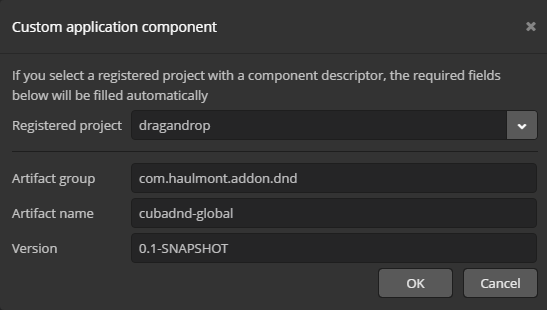
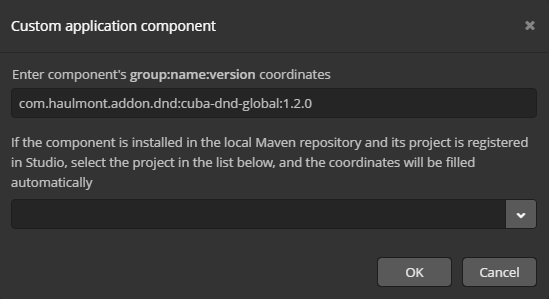
Fix README #4

diff --git a/README.md b/README.md
@@ -1,12 +1,12 @@
 ### Preface
-This manual describes the DnD add-on that provides Drag & Drop functionality for UI platform components [CUBA.platform](https://www.cuba-platform.com).
+The add-on provides Drag-and-Drop functionality for UI platform components [CUBA platform](https://www.cuba-platform.com).
 
 ### Dependencies
- - [vaadin add-on dragdroplayouts](https://github.com/parttio/dragdroplayouts)
- - [vaadin DragAndDropWrapper](https://vaadin.com/vaadin-documentation-portlet/framework/advanced/advanced-dragndrop.html)
+ - [Vaadin add-on dragdroplayouts](https://github.com/parttio/dragdroplayouts)
+ - [Vaadin DragAndDropWrapper](https://vaadin.com/vaadin-documentation-portlet/framework/advanced/advanced-dragndrop.html)
 
 ### Main features
-UI components with Drag & Drop functionality:
+UI components with Drag-and-Drop functionality:
   - DDVerticalLayout;
   - DDHorizontalLayout;
   - DDGridLayout;
@@ -14,38 +14,39 @@ UI components with Drag & Drop functionality:
   - DDAbsoluteLayout;
   - DragAndDropWrapper.
 
-### Compatibility with platform versions:
-| Add-on        | Platform      |
-|:------------- |:------------- |
-| 1.2           | 6.8+          |
-| 1.1           | 6.7+          |
-| 1.0           | 6.6+          |
+### Usage
+Select a version of the add-on which is compatible with the platform version used in your project:
 
-### Build from sources
-```
-gradlew install
-```
+| Platform Version| Add-on Version|
+|:----------------|:--------------|
+| 6.8.x           | 1.2.0         |
+| 6.7.x           | 1.1.0         |
+| 6.6.x           | 1.0.0         |
+
+Add custom application component to your project (change the version part if needed):
+`com.haulmont.addon.dnd:cuba-dnd-global:1.2.0`
+
 
 ### Description
-This add-on contains components that implement Drag & Drop functionality. To handle a component's drop action, it is necessary to implement DropHandler interface that contains two methods:
-- drop(DragAndDropEvent event) - method that handles transferable component's drop;
-- getCriterion() - returns the AcceptCriterion that is used to evaluate whether the dragged component will be handed over to drop method.
+This add-on contains components that implement Drag-and-Drop functionality. To handle a component's drop action, it is necessary to implement DropHandler interface that contains two methods:
+- `drop(DragAndDropEvent event)` - method that handles transferable component's drop;
+- `getCriterion()` - returns the AcceptCriterion that is used to evaluate whether the dragged component will be handed over to drop method.
 
-In order to accept a Drop event, components must provide the AcceptCriterion object. AcceptCriterion interface has two main inheritors - ServerSideCriterion and AcceptCriterionWrapper. If you want to check an accept criterion on a browser side, you have to implement AcceptCriterionWrapper interface.
+In order to accept a Drop event, components must provide the `AcceptCriterion` object. `AcceptCriterion` interface has two main inheritors - `ServerSideCriterion` and `AcceptCriterionWrapper`. If you want to check an accept criterion on a browser side, you have to implement `AcceptCriterionWrapper` interface.
 
 ### Quick start
 To use this add-on in a CUBA Studio project, follow the steps below:
 
-1. Download the add-on.
-2. Edit Project Properties in CUBA Studio. On the App components panel click the plus button next to Custom components.
-3. In the Custom application component dialog, select the add-on in the Registered project drop-down list. 
-4. Add the following xmlns in in the XML descriptor of the screen:
+1. In the project properties add add-on like custom application component and save settings.
+```
+`com.haulmont.addon.dnd:cuba-dnd-global:1.2.0`
+```
+2. Create a simple screen.
+2. Add the following namespace in the XML descriptor of the screen:
 
 ```
 xmlns:dnd="http://schemas.haulmont.com/dnd/0.1/drag-and-drop.xsd"
 ```
-
-After completing these steps, the DnD component will become available in CUBA Studio.
 
 #### Sample task
 Let's try to create a small todo-list app. It will provide a predefined set of todo-actions that can be added to the todo-list.
@@ -56,14 +57,14 @@ In this app we will implement the following features:
  - deleting components.
 
 #### Step-by-step guide
-Create a new CUBA project and add the DnD add-on to it.
+Create a new CUBA project and add the given add-on to it.
 
 ![](/sreenshots/1-Adding-addon.png "Adding add-on")
 
 In the GENERIC UI tab create a new screen using "Blank screen" template.
 
 We will divide this screen into two panels: the first panel is a palette that contains actions, the second is a dashboard that contains the list of actions.
-First of all, add the dependency to the XML descriptor of the screen:
+First of all, add the next namespace to the XML descriptor of the screen:
 ```
 xmlns:dnd="http://schemas.haulmont.com/dnd/0.1/drag-and-drop.xsd"
 ```
@@ -107,7 +108,7 @@ and add the following block:
 Component with the "rootPalette" id contains the set of predefined actions.
 These components can be dragged by users. Component with the "dashboard" id contains a todo-list.
 
-Palette and Dashboard have property dragMode which indicates that their components can be dragged.  
+Palette and Dashboard have property `dragMode` which indicates that their components can be dragged.  
 
 This is how the screen looks in the running app:
 
@@ -148,7 +149,7 @@ Make sure that the buttons are added and they can be dragged:
 
 ![](/sreenshots/3-xml-with-buttons.png "View of the screen with draggable buttons")
 
-In the screen controller set DropHandler to the dashboard component:
+In the screen controller set `DropHandler` to the dashboard component:
 
 ```Java
 @Inject
@@ -170,11 +171,11 @@ public void init(Map<String, Object> params) {
 }
 ```
 
-The methods drop() and getCriterion() are invoked every time when the dragged component is dropped to the layout.
-In the drop() method we should implement our logic to handle component's drop.  
+The methods `drop()` and `getCriterion()` are invoked every time when the dragged component is dropped to the layout.
+In the `drop()` method we should implement our logic to handle component's drop.  
 
-Method getCriterion() allows us to specify the criteria to accept dropping various components to this layout
-(e.g. only Labels and/or Buttons etc.). In this case we accept all components: AcceptCriterion.ACCEPT_ALL.
+Method `getCriterion()` allows us to specify the criteria to accept dropping various components to this layout
+(e.g. only Labels and/or Buttons etc.). In this case we accept all components: `AcceptCriterion.ACCEPT_ALL`.
 
 If we now run this app and try to drag a button to the dashboard, we will see that the dropping area is not highlighted.
 This is due to the dashboard property height which is set to AUTO. To expand this layout we should write some CSS in the extension theme of the app.
@@ -182,7 +183,7 @@ To do this, we create a theme extension in Project Properties.
 
 ![](/sreenshots/4-theme-extention.png "Create extension theme")  
 
-Add the following code to the halo-ext.scss:
+Add the following code to the `halo-ext.scss`:
 
 ```css
 .min-height{
@@ -202,13 +203,13 @@ public Component createDashboardElement(Component component) {
 }
 ```
 
-For the main component added directly to the dashboard we will use GroupBoxLayout. Then we will add HBoxLayout to the GroupBoxLayout and fill it with the components:
+For the main component added directly to the dashboard we will use `GroupBoxLayout`. Then we will add `HBoxLayout` to the `GroupBoxLayout` and fill it with the components:
 - Label with appropriate serial number;
 - Label with name of action;
 - LookupField;
 - Button to remove from list.
 
-Firstly, create GroupBoxLayout and HBoxLayout, specify width 100% for both components and add spacing to HBoxLayout:
+Firstly, create `GroupBoxLayout` and `HBoxLayout`, specify width 100% for both components and add spacing to `HBoxLayout`:
 
 ```Java
 GroupBoxLayout groupBox = factory.createComponent(GroupBoxLayout.class);
@@ -236,7 +237,7 @@ Button deleteButton = factory.createComponent(Button.class);
 deleteButton.setIcon("font-icon:TIMES");
 ```
 
-Create BaseAction for the delete button. We'll implement the logic of deletion a bit later:
+Create `BaseAction` for the delete button. We'll implement the logic of deletion a bit later:
 
 ```Java
 BaseAction action = new BaseAction("remove") {
@@ -260,18 +261,18 @@ layout.add(deleteButton);
 groupBox.add(layout);
 ```
 
-Now we should handle component's drop to the dashboard. DragAndDropEvent event variable contains information about which component is being dragged, its source layout, to which component, to which position etc. To get this information you should use the following classes:
+Now we should handle component's drop to the dashboard. `DragAndDropEvent` event variable contains information about which component is being dragged, its source layout, to which component, to which position etc. To get this information you should use the following classes:
 - LayoutBoundTransferable;
 - DDVerticalLayoutTargetDetails.
 
-In the drop() method we get references to the objects LayoutBoundTransferable and DDVerticalLayoutTargetDetails.
+In the `drop()` method we get references to the objects `LayoutBoundTransferable` and `DDVerticalLayoutTargetDetails`.
 
 ```java
 LayoutBoundTransferable t = (LayoutBoundTransferable) event.getTransferable();
 DDVerticalLayoutTargetDetails details = (DDVerticalLayoutTargetDetails) event.getTargetDetails();
 ```
 
-LayoutBoundTransferable contains two main methods:
+`LayoutBoundTransferable` contains two main methods:
 - getSourceComponent() - return the layout from which transferable component was dragged;
 - getTransferableComponent() - return transferable component;
 
@@ -280,13 +281,13 @@ Component sourceLayout = t.getSourceComponent();
 Component tComponent = t.getTransferableComponent();
 ```
 
-DDVerticalLayoutTargetDetails contains information about layout to drop the component to (receiving layout).
+`DDVerticalLayoutTargetDetails` contains information about layout to drop the component to (receiving layout).
 The main methods are:
-- getTarget() - return layout to which drop;
-- getOverComponent() - return child component of the target layout, to which drop transferable component;
-- getDropLocation() - return drop location (Middle, Top, Bottom);
-- getOverIndex() - return index of child component;
-Get references to the layout to drop the transferable component to and VerticalDropLocation:
+- `getTarget()` - return layout to which drop;
+- `getOverComponent()` - return child component of the target layout, to which drop transferable component;
+- `getDropLocation()` - return drop location (Middle, Top, Bottom);
+- `getOverIndex()` - return index of child component;
+Get references to the layout to drop the transferable component to and `VerticalDropLocation`:
 
 ```Java
 DDVerticalLayout targetLayout = (DDVerticalLayout) details.getTarget();
@@ -359,7 +360,7 @@ if (sourceLayout == targetLayout) {
 ```
 
 Next we should check if the component hits to the child component of layout. If it hits, we check the drop location.
-If location is MIDDLE or BOTTOM, we must increase indexTo by one to add below a component to which the component was dragged.
+If location is `MIDDLE` or `BOTTOM`, we must increase indexTo by one to add below a component to which the component was dragged.
 
 ```java
 if (indexTo != -1) {
@@ -443,13 +444,13 @@ for (Component component : components) {
 }
 ```
 
-Now at the end of drop() method add the follow invocation:
+Now at the end of `drop()` method add the follow invocation:
 
 ```Java
 updateDashboardComponents(targetLayout);
 ```
 
-It remains to implement the component removing from the dashboard. Add this code to actionPerfom:
+It remains to implement the component removing from the dashboard. Add this code to `actionPerfom()` method:
 
 ```Java
 public void actionPerform(Component component) {
